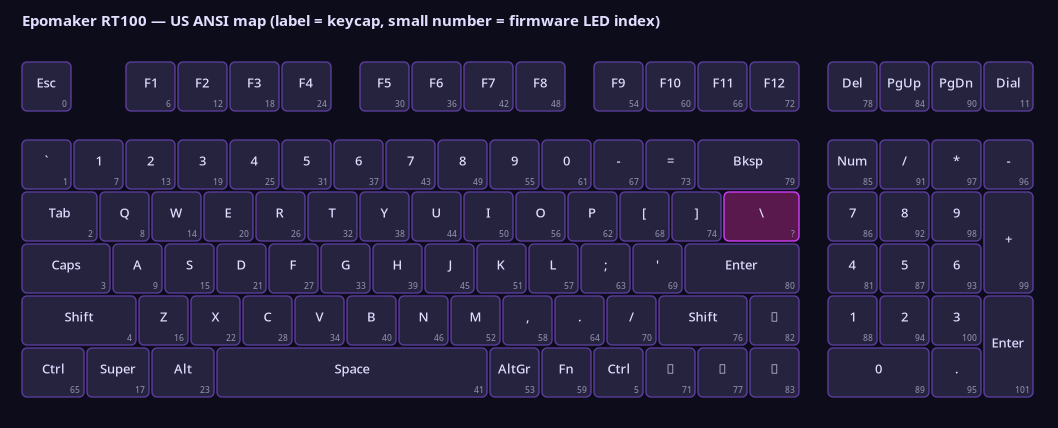
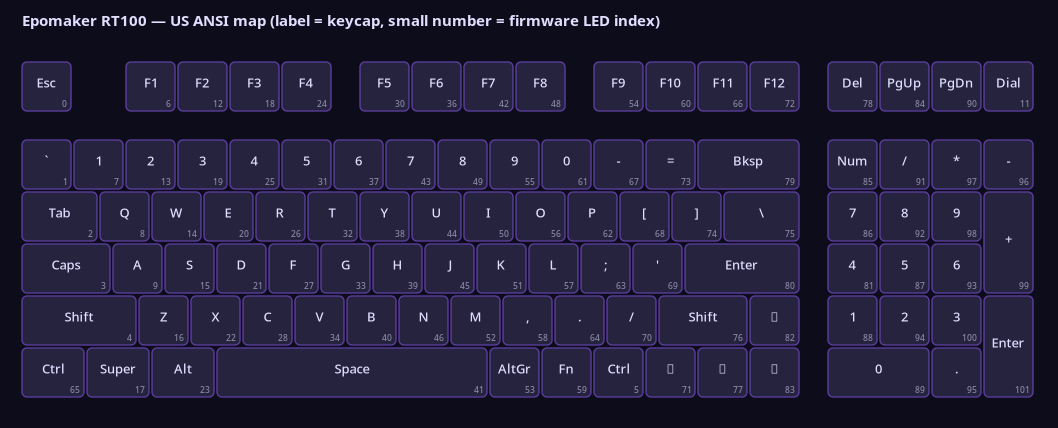
Resolve the US ANSI backslash: LED index 75
Confirmed on hardware 2026-07-31 and now the default, so the last unknown in
the ANSI map is closed.

The library ships a UK ISO keymap only, where index 10 is the key between
Left Shift and Z and index 75 is the key left of Enter. An ANSI board has
neither switch and puts backslash at the end of the QWERTY row; index 75 is
the matrix position those two share.

The candidate list stays, reordered so the confirmed value is first, because
the same test still resolves it on a board this does not match.

Also stops the layout diagram inheriting the ISO label for that key -- the
same bug already fixed in the GUI. It printed "#", an ISO key with no
physical existence on an ANSI board.

Claude-Session: https://claude.ai/code/session_01WxgRjVTQWKAcgRhPTpGdtd

Changed region(s): [[0.6862, 0.4252, 0.7798, 0.5771]]

diff --git a/epomaker_rt100_gtk.py b/epomaker_rt100_gtk.py
@@ -250,13 +250,18 @@ LABEL_OVERRIDES = {
     "NUMPAD_ENTER": "Enter", "ENTER": "Enter",
 }
 
-# The one genuinely unknown mapping. On a UK ISO board the library's index 10
-# ("BACKSLASH") is the key between Left Shift and Z, and index 75 ("HASH") is
-# the key left of Enter. A US ANSI board has neither of those switches -- its
-# backslash sits at the end of the QWERTY row. Which LED index the firmware
-# assigns to it is NOT recorded anywhere in the library source, so it is not
-# guessed here: the UI offers a one-click test of each candidate.
-BACKSLASH_CANDIDATES = ["BACKSLASH", "HASH", "ENTER"]
+# Confirmed on hardware 2026-07-31: the US ANSI backslash is LED index 75,
+# which the library's UK ISO keymap names "HASH".
+#
+# That is not recorded anywhere in the library, which ships an ISO map only. On
+# ISO, index 10 ("BACKSLASH") is the key between Left Shift and Z and index 75
+# is the key left of Enter; an ANSI board has neither switch, and puts backslash
+# at the end of the QWERTY row. Index 75 turns out to be the matrix position
+# those two share.
+#
+# The candidate list stays so the same test works on another board -- the first
+# entry is the default, and the UI lights each in turn.
+BACKSLASH_CANDIDATES = ["HASH", "ENTER", "BACKSLASH"]
 
 # Pacing. The upstream library sends packets back-to-back. The RT100 firmware
 # erases SRAM on the init report and needs a pause before data arrives, and the
@@ -844,7 +849,9 @@ class Window(Adw.ApplicationWindow):
 
         self.settings = load_settings()
         self.interface = int(self.settings.get("interface", 1))
-        self.backslash_index_name = self.settings.get("backslash_index_name", "BACKSLASH")
+        self.backslash_index_name = self.settings.get(
+            "backslash_index_name", BACKSLASH_CANDIDATES[0]
+        )
         self.key_colours: dict[str, str] = dict(self.settings.get("key_colours", {}))
         self.picked: set[str] = set()
         self.busy = False
@@ -1086,8 +1093,8 @@ class Window(Adw.ApplicationWindow):
         self.backslash_row = Adw.ActionRow(
             title="Backslash key position",
             subtitle=(
-                "Not recorded in the library, which only ships a UK ISO map. Light each "
-                "candidate and keep whichever matches your backslash key."
+                "Confirmed as LED index 75 on a US ANSI board. If yours differs, "
+                "light each candidate and keep the one that matches."
             ),
         )
         test = Gtk.Button(label="Test next candidate", valign=Gtk.Align.CENTER)

diff --git a/tools/render_layout.py b/tools/render_layout.py
@@ -48,7 +48,7 @@ for name, (x, y, w, h) in app.ANSI_LAYOUT.items():
 
     lookup = app.BACKSLASH_CANDIDATES[0] if name == "BACKSLASH" else name
     key = by_name.get(lookup)
-    ambiguous = name == "BACKSLASH"
+    ambiguous = False  # index 75 confirmed on hardware 2026-07-31
 
     rounded(px, py, pw, ph)
     if ambiguous:
@@ -65,6 +65,10 @@ for name, (x, y, w, h) in app.ANSI_LAYOUT.items():
         label = (key.display_str if key else name).strip() or name
     if name == "SPACE":
         label = "Space"
+    if name == "BACKSLASH":
+        # The cap is what is printed on the keyboard, not the display_str of the
+        # ISO key sharing its LED index (75, which the ISO map calls "#").
+        label = "\\"
 
     cr.select_font_face("Noto Sans", cairo.FONT_SLANT_NORMAL, cairo.FONT_WEIGHT_NORMAL)
     size = 13 if len(label) <= 5 else 10
@@ -74,7 +78,7 @@ for name, (x, y, w, h) in app.ANSI_LAYOUT.items():
     cr.move_to(px + (pw - ext.width) / 2 - ext.x_bearing, py + ph / 2 + 1)
     cr.show_text(label)
 
-    idx = "?" if ambiguous else (str(key.value) if key else "-")
+    idx = str(key.value) if key else "-"
     cr.set_font_size(8.5)
     cr.set_source_rgb(0.54, 0.53, 0.65)
     ext = cr.text_extents(idx)

diff --git a/README.md b/README.md
@@ -261,13 +261,12 @@ Measured on an RT100, 2026-07-30. Neither of these is documented upstream:
 Two mappings are genuinely not recorded in the library, which ships a **UK ISO**
 layout only. They are not guessed here:
 
-- **The backslash key.** On UK ISO, index 10 (`BACKSLASH`) is the key between
-  Left Shift and Z, and index 75 (`HASH`) is the key left of Enter. A US ANSI
-  board has neither switch — its backslash sits at the end of the QWERTY row.
-  Which LED index the firmware gives it is unknown, so the app has a **"Test
-  next candidate"** button that lights one candidate at a time (10, 75, 80).
-  Keep whichever matches your key; the choice is saved. It is drawn highlighted
-  with a `?` until you confirm it.
+- **The backslash key — resolved.** On a US ANSI board it is **LED index 75**,
+  which the library's UK ISO keymap calls `HASH`. Confirmed on hardware
+  2026-07-31 and now the default. The library records only the ISO map, where
+  index 10 is the key between Left Shift and Z and index 75 is the key left of
+  Enter; ANSI has neither switch, and index 75 is the matrix position they
+  share. The **"Test next candidate"** button remains for other boards.
 - **Which Ctrl is which.** The library's ISO layout lists `RIGHT_CTRL` at the
   far left of the bottom row and `LEFT_CTRL` at the right. That looks like an
   upstream mix-up, but it is the only record, and LED indices are not geometric
